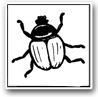
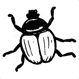
Thumbnail borders are now in CSS, not .png

diff --git a/vidra.css b/vidra.css
@@ -55,7 +55,13 @@ a, a:visited {
 
 .toc .thumbnail {
     float: left;
-    margin-bottom: 36px;
+    margin: 10px 0px 32px 7px;
+}
+
+.thumbnail {
+    border: 1px solid black;
+    border-radius: 2px;
+    padding: 2px;
 }
 
 .toc {

diff --git a/scripts/build.py b/scripts/build.py
@@ -100,8 +100,8 @@ for dir in sorted(os.listdir(".")):
             print("Error while parsing {}:\n{}".format(dir, err))
 
 
-entries = ['<div class="toc"><a href="{0}/main.html" class="thumbnail"><img src="{0}/thumbnail.png"/></a>'
-           '<div class="desc"><a href="{0}/main.html"><h2>{1}</h2><p>{2}</p></a></div></div>'.
+entries = ['<div class="toc"><a href="{0}" class="thumbnail"><img src="{0}/thumbnail.png"/></a>'
+           '<div class="desc"><a href="{0}"><h2>{1}</h2><p>{2}</p></a></div></div>'.
            format(dir, title, summary)
            for dir, title, summary in all_pages]
 tocdivs = "\n".join('<div id="col{}">{{}}</div>'.format(i) for i in "12")
